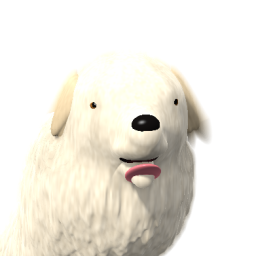
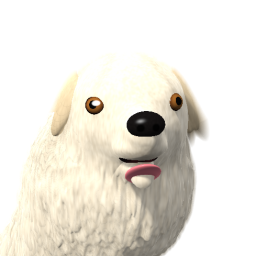
Cane più grande e dettagliato: occhi e naso più visibili, narici, dita

diff --git a/dog3d.py b/dog3d.py
@@ -50,6 +50,8 @@ BREEDS = {
     ),
 }
 DEFAULT_BREED = "maremmano"
+SCALE = 1.25  # grandezza del cane sullo schermo
+SIZED = {"Hs", "rc", "rh", "Lb", "R", "muzzle", "neck", "neckR", "tail", "tailR", "tailFur", "legR", "fur", "kscale"}
 
 
 # ------------------------------------------------------------------ vettori (tuple x, y, z)
@@ -141,7 +143,8 @@ class Dog:
 
     def set_breed(self, key):
         self.key = key
-        self.b = BREEDS[key]
+        # misure in pixel scalate tutte insieme (colori e rapporti restano uguali)
+        self.b = {k: v * SCALE if k in SIZED else v for k, v in BREEDS[key].items()}
         b = self.b
         b_hh = b["Hs"] * 1.02
         self.pastern = 0.15 * b["Hs"]
